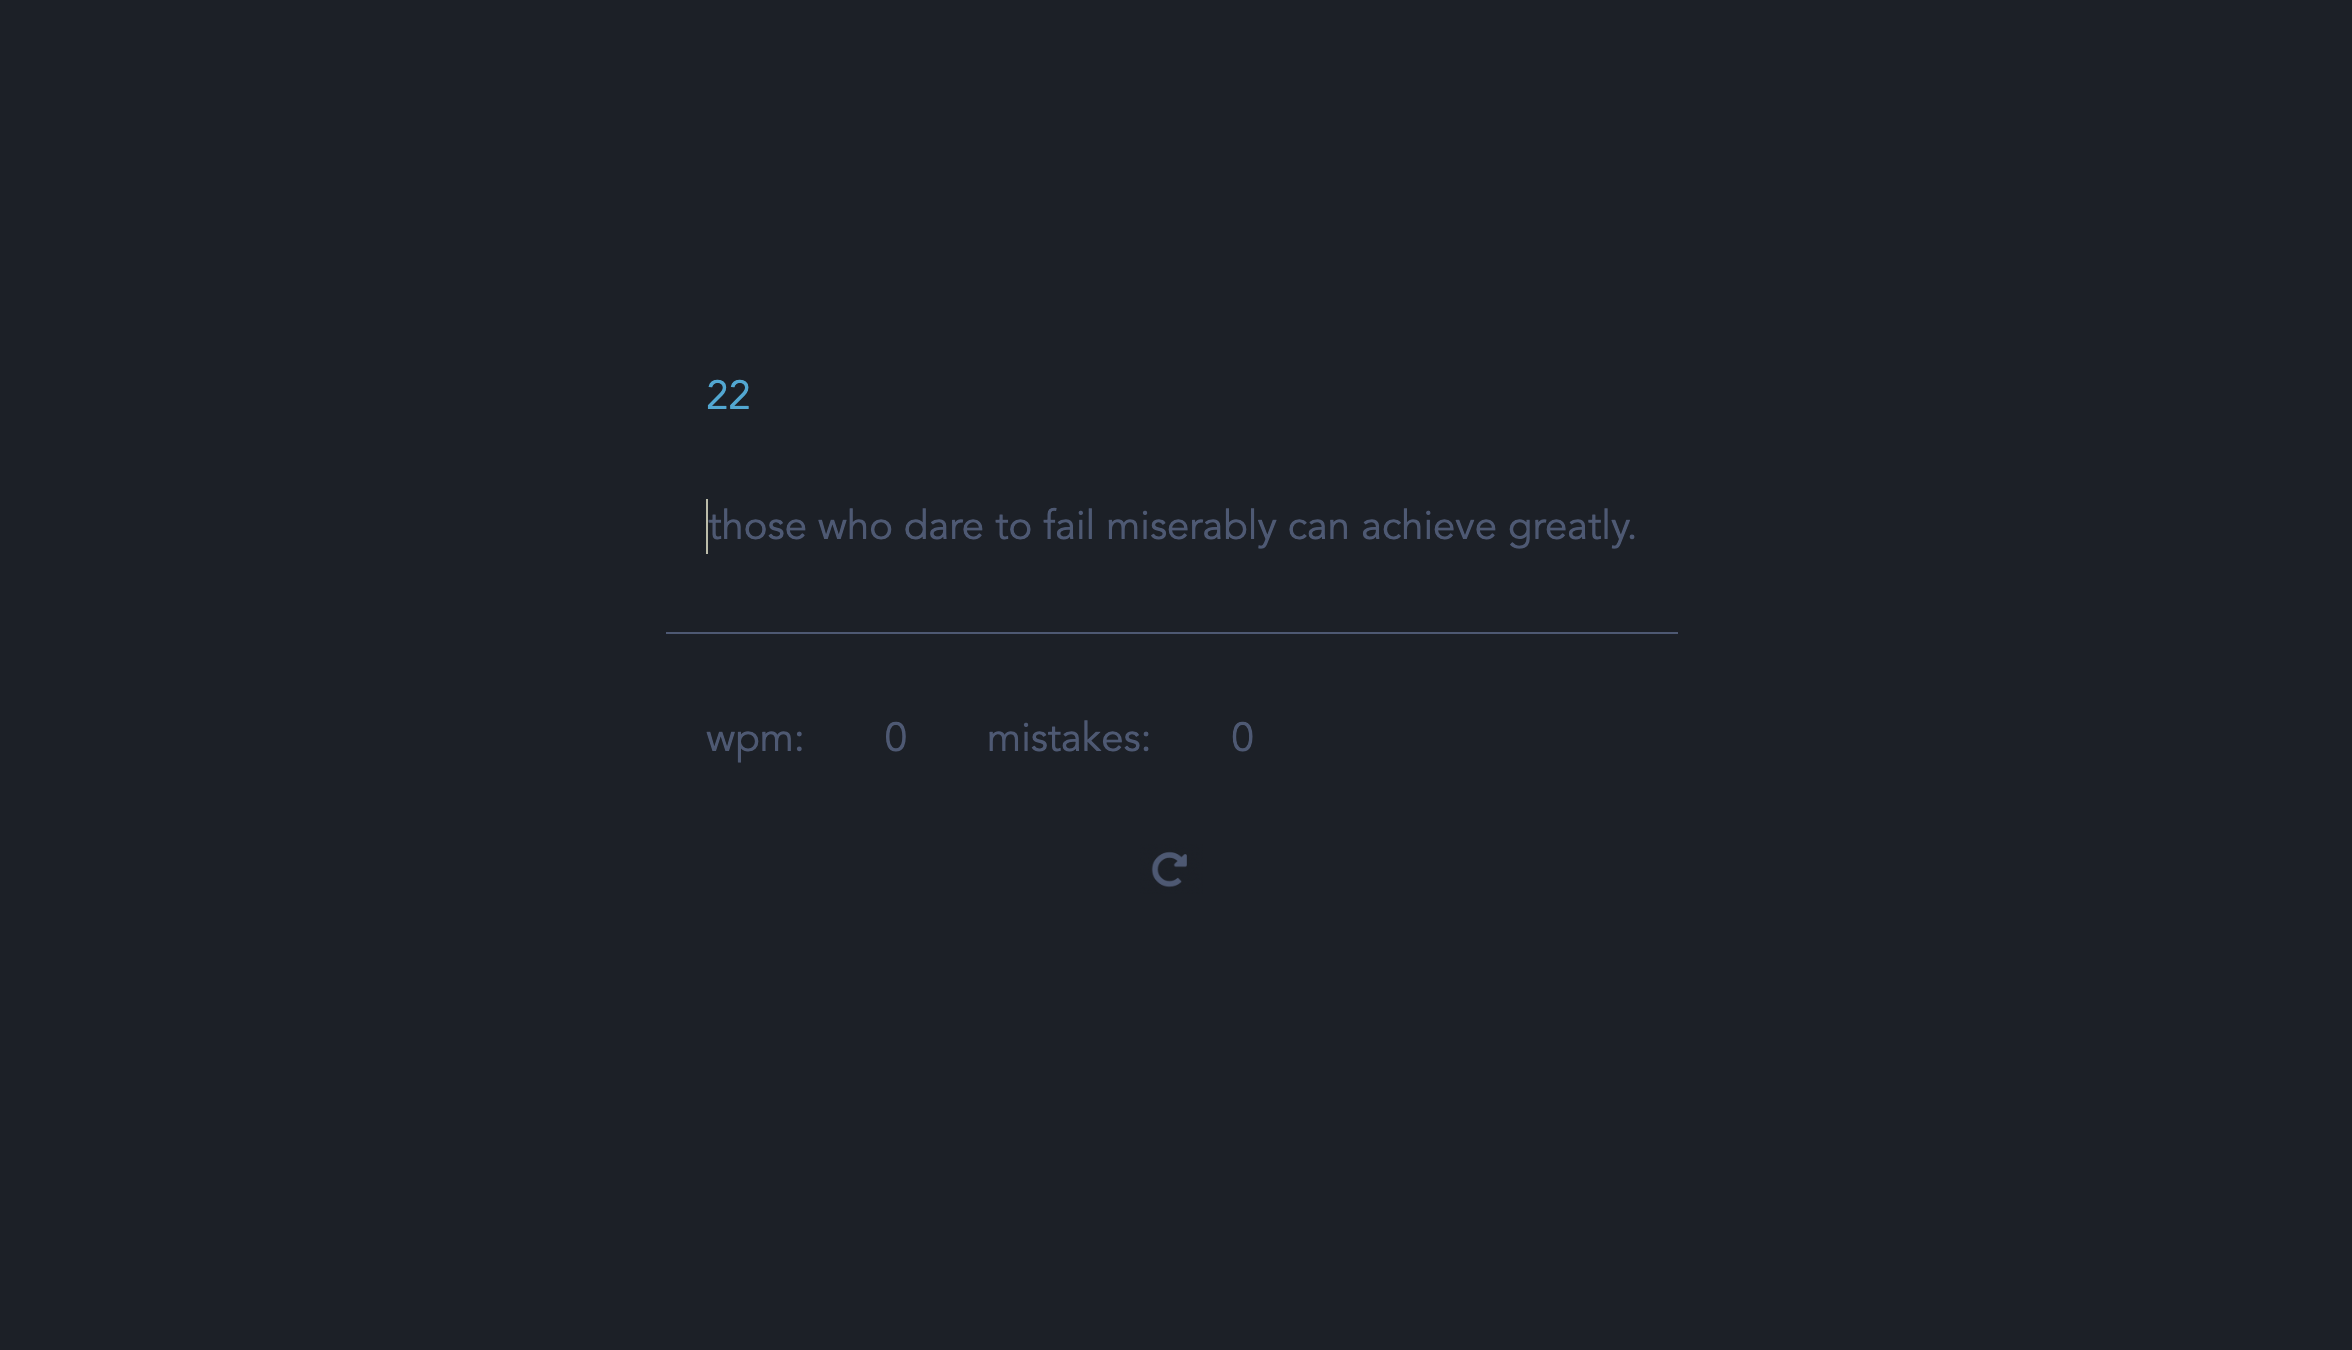
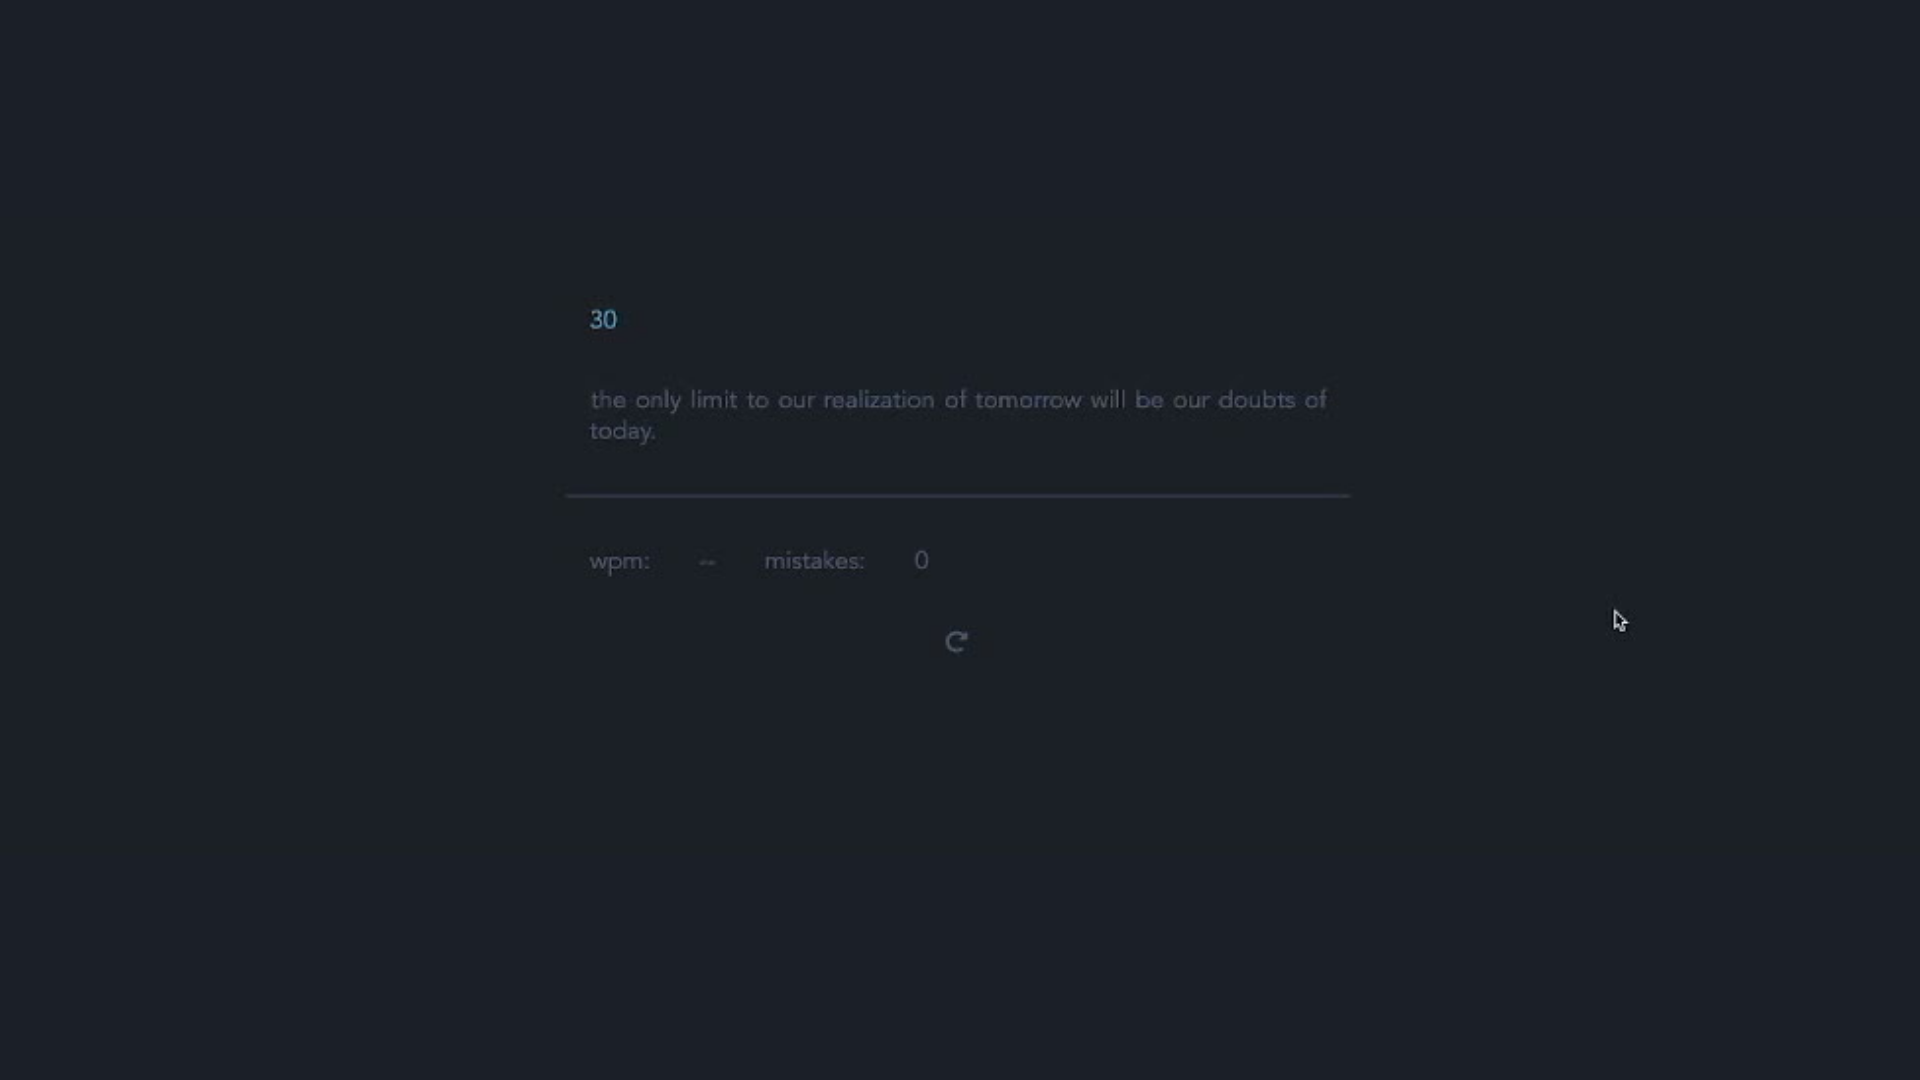
updated screenshots and gifs, added netrunner project

diff --git a/index.html b/index.html
@@ -196,11 +196,75 @@
               <a href="https://andrew32a.github.io/typing-gym/" target="_blank">
                 <img
                   src="./public/images/typing-gym-screenshot.png"
-                  data-gif="./public/images/github-intro-v2.gif"
+                  data-gif="./public/images/typing-gym-demo.gif"
                   alt="A preview image of the project"
                   class="project-image-image"
                   onmouseover="this.src=this.getAttribute('data-gif')"
                   onmouseout="this.src='./public/images/typing-gym-screenshot.png'"
+                />
+              </a>
+            </div>
+          </li>
+          <li class="projects-featured">
+            <div class="project-content-right">
+              <p class="project-overline">Featured Project</p>
+
+              <a
+                aria-label="Demo Link"
+                target="_blank"
+                rel="noopener noreferrer"
+                href="https://andrew32a.github.io/typing-gym/"
+              >
+                <h3 class="project-title">Netrunner</h3>
+              </a>
+
+              <div class="project-description">
+                <p>
+                  3D Unity game made in 1 week! Fast paced movement based FPS
+                  game inspired by games like Titanfall, Carlson, Ghostrunner
+                  and Super Hot.
+                </p>
+              </div>
+
+              <ul class="project-tech-list">
+                <li>Unity</li>
+                <li>C#</li>
+                <li>WebGL</li>
+              </ul>
+
+              <div class="project-links">
+                <a
+                  aria-label="Github Link"
+                  target="_blank"
+                  rel="noopener noreferrer"
+                  href="https://github.com/Andrew32A/netrunner"
+                >
+                  <i class="ri-github-line icon"></i>
+                </a>
+
+                <a
+                  aria-label="Demo Link"
+                  target="_blank"
+                  rel="noopener noreferrer"
+                  href="https://andrew32a.github.io/netrunner-webgl/"
+                >
+                  <i class="ri-window-line icon"></i>
+                </a>
+              </div>
+            </div>
+
+            <div class="project-image-left">
+              <a
+                href="https://andrew32a.github.io/netrunner-webgl/"
+                target="_blank"
+              >
+                <img
+                  src="./public/images/netrunner-screenshot.png"
+                  data-gif="./public/images/netrunner-demo.gif"
+                  alt="A preview image of the project"
+                  class="project-image-image"
+                  onmouseover="this.src=this.getAttribute('data-gif')"
+                  onmouseout="this.src='./public/images/netrunner-screenshot.png'"
                 />
               </a>
             </div>
